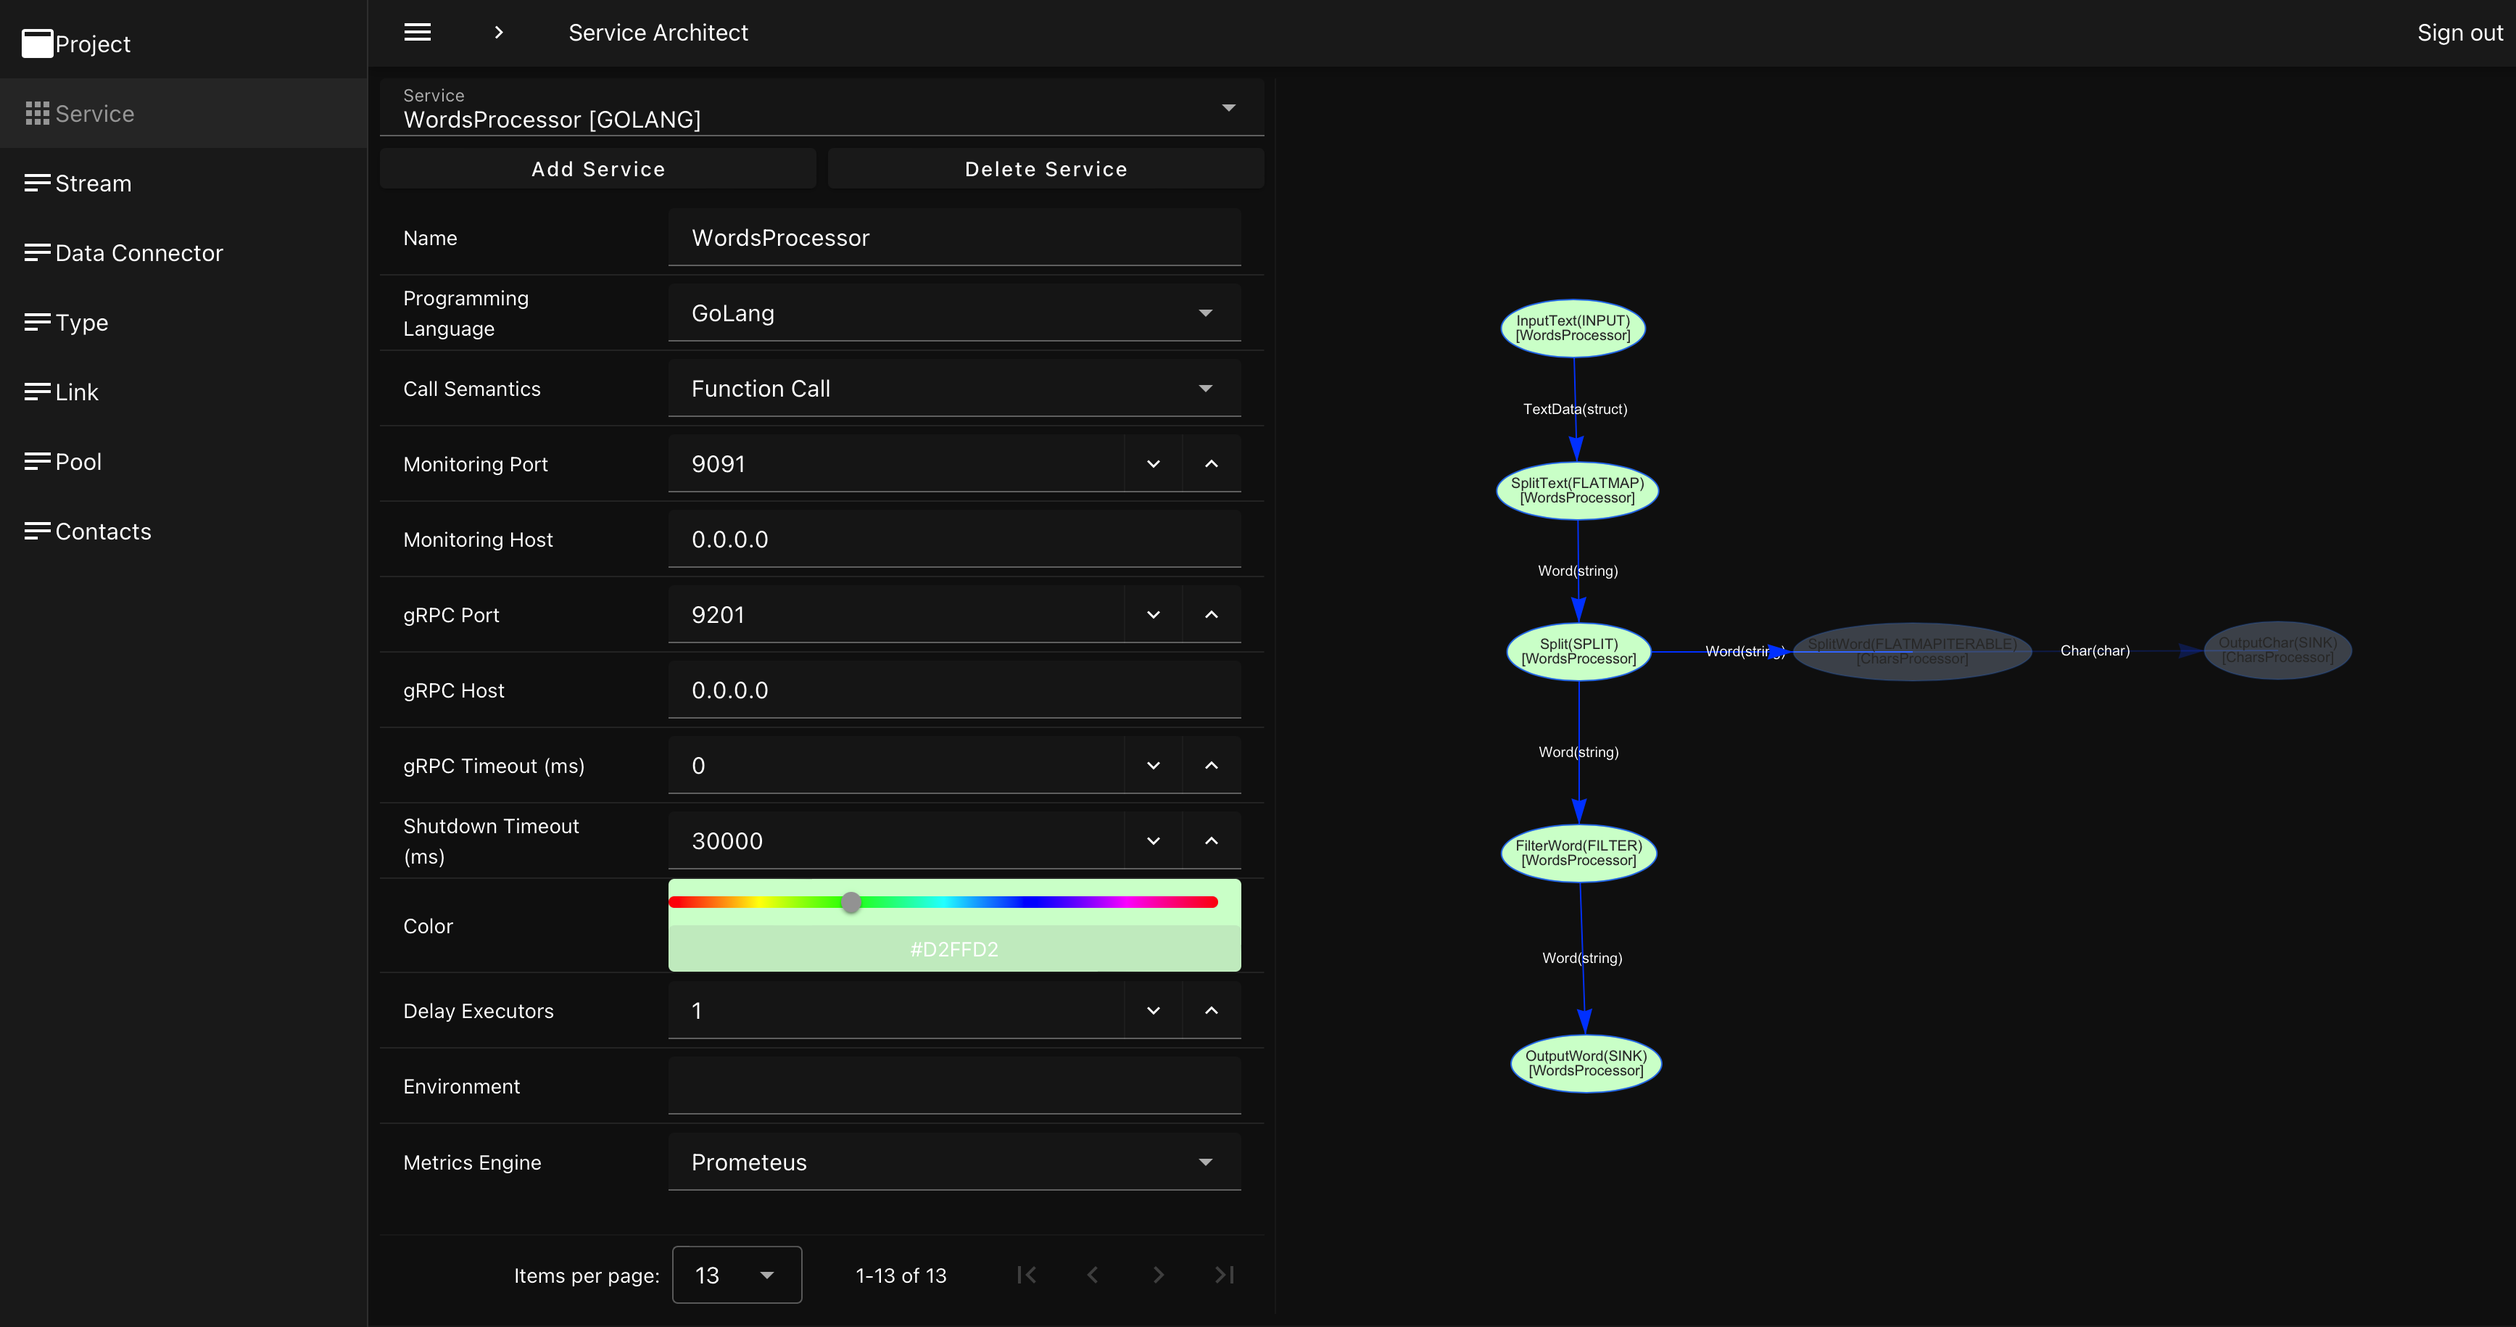
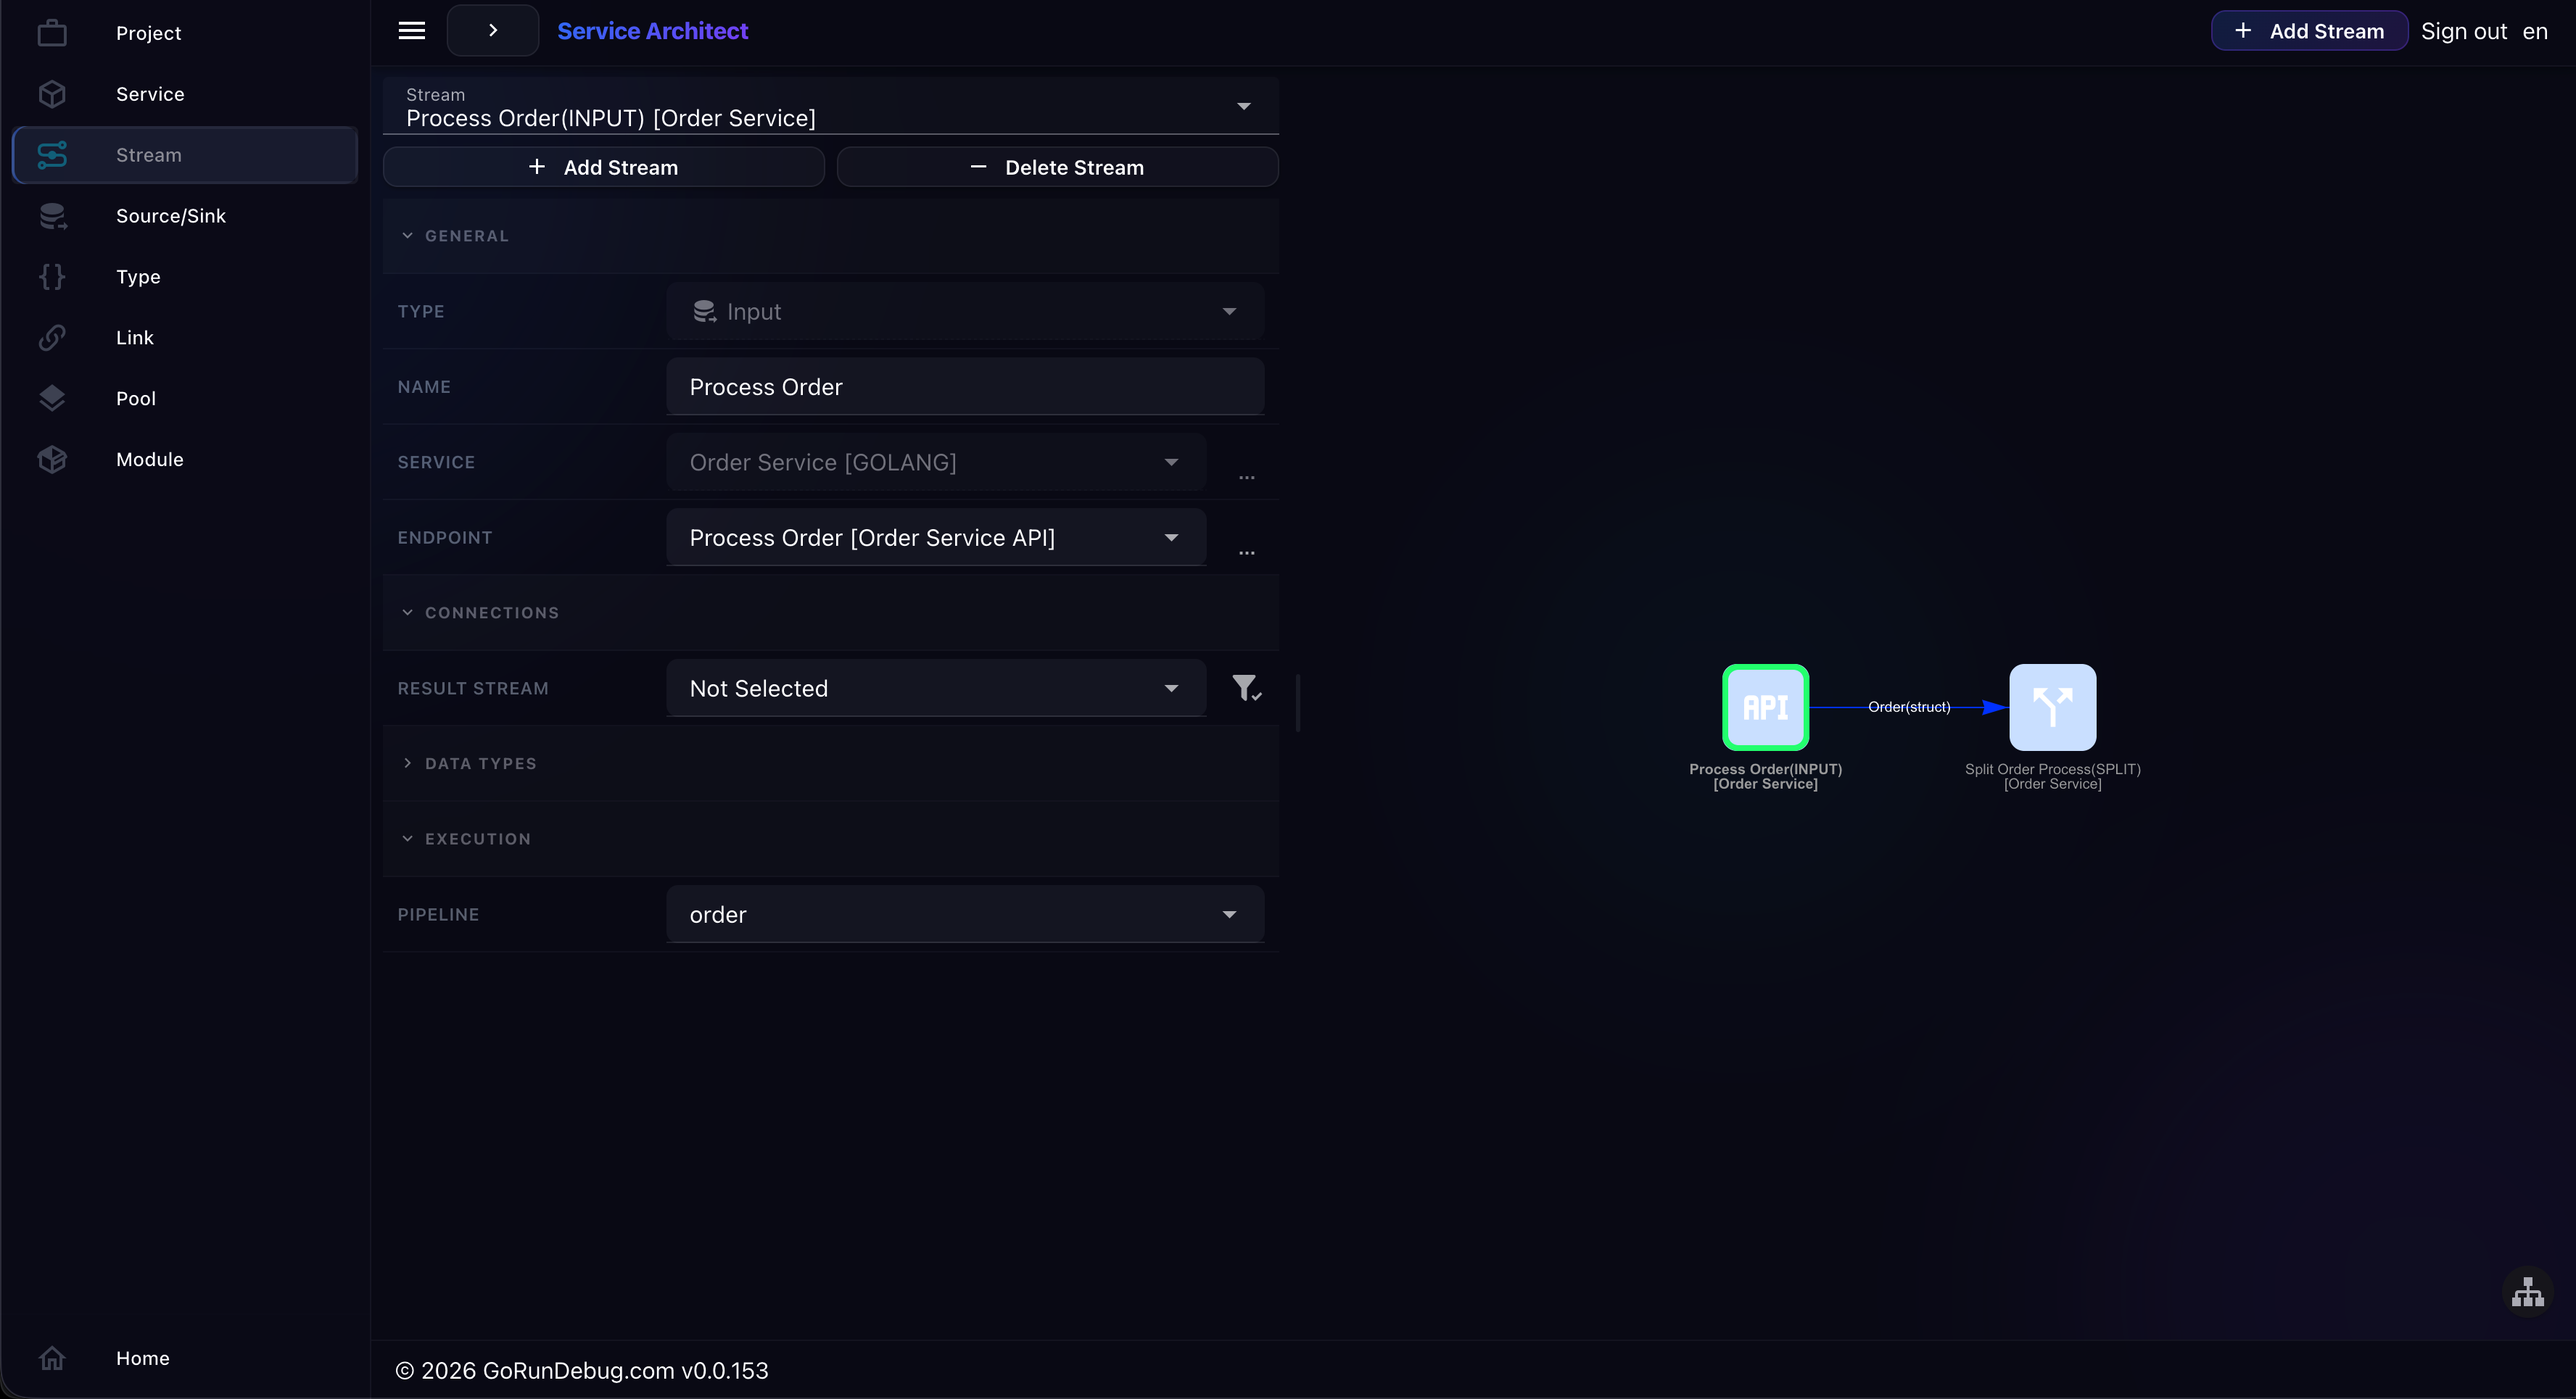
screen.png

diff --git a/README.md b/README.md
@@ -71,6 +71,12 @@ No HTTP routing. No transport handling. No serialization code. Only business log
 
 ---
 
+## Visual Designer
+
+![Service Topology Runtime](screen.png)
+
+---
+
 ## Operators
 
 | Operator | Purpose |
